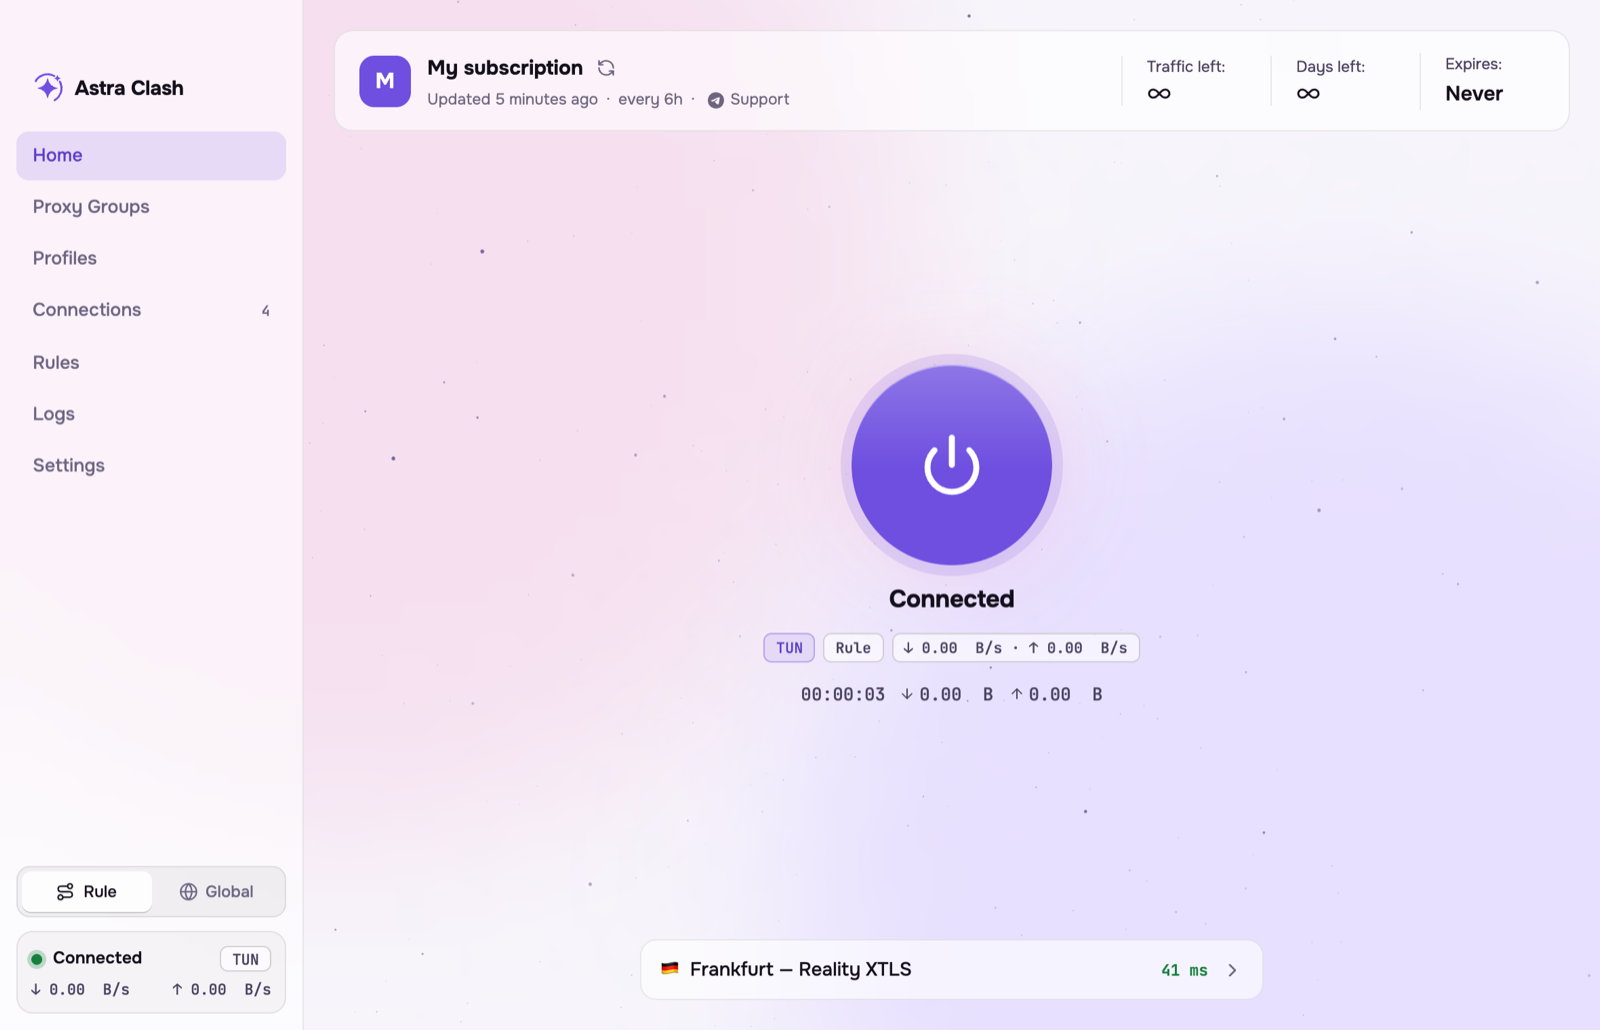
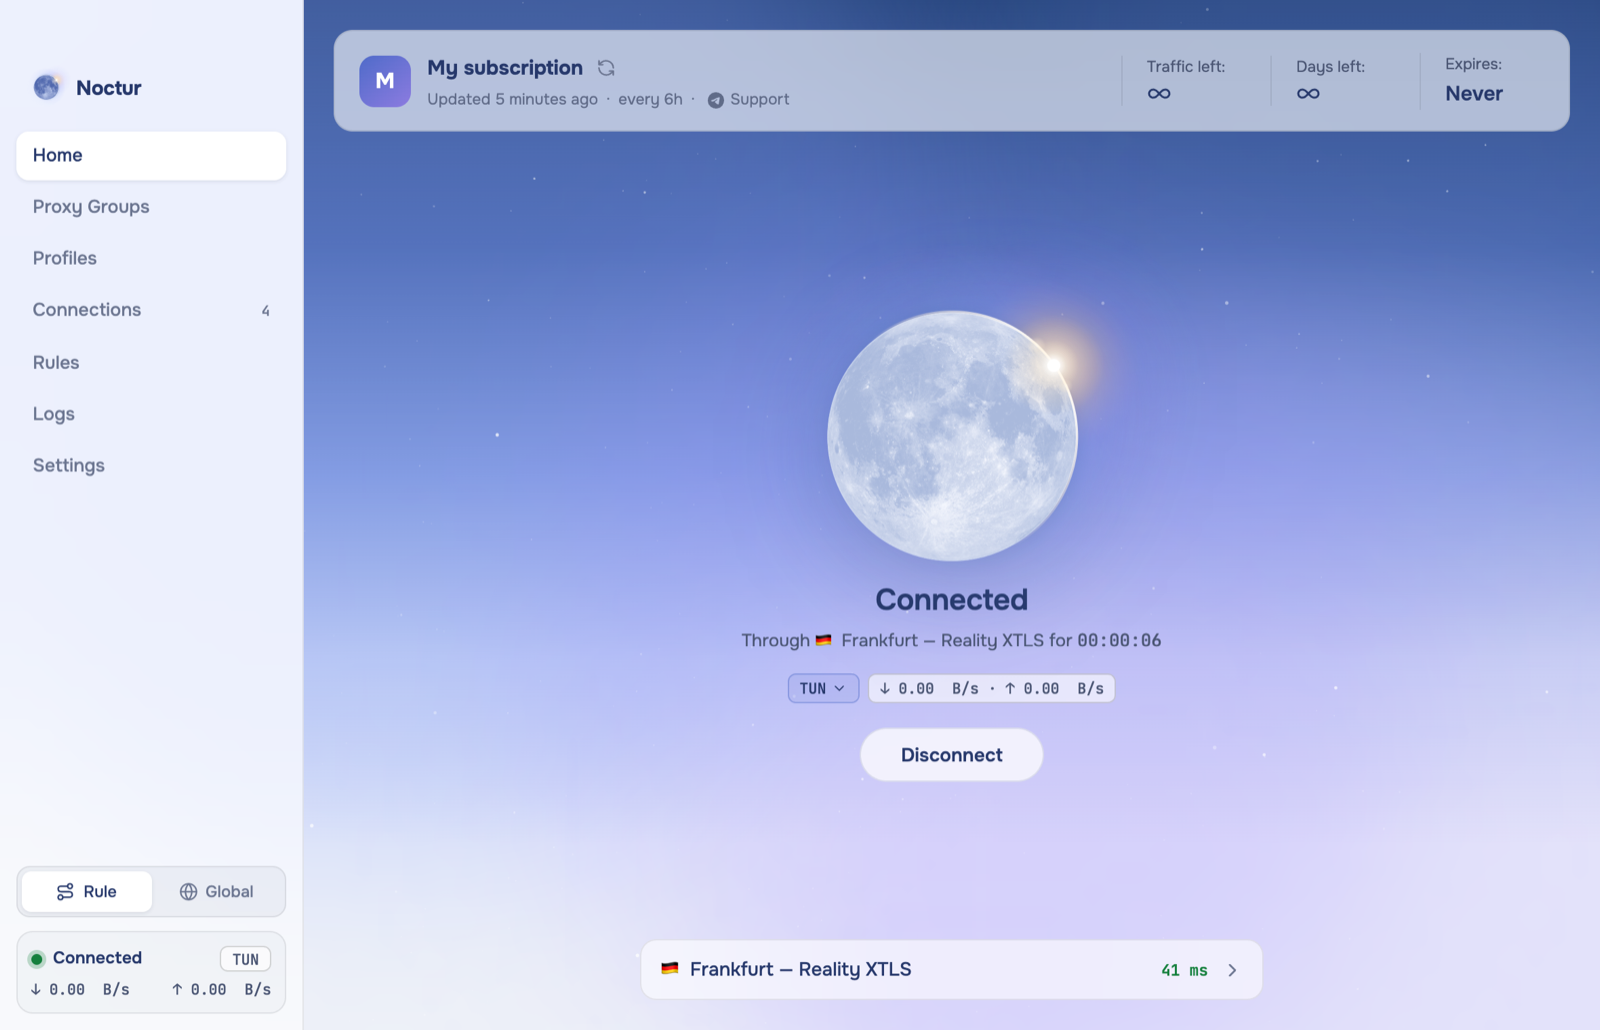
README: new screenshots and connect clip

diff --git a/README.md b/README.md
@@ -1,47 +1,44 @@
 <p align="center">
-  <img src="./build/icon.png" alt="Astra Clash" width="112" />
+  <img src="./build/icon.png" alt="Noctur" width="112" />
 </p>
 
-<h1 align="center">Astra Clash</h1>
+<h1 align="center">Noctur</h1>
 
 <p align="center"><a href="https://github.com/MetaCubeX/mihomo">mihomo</a> client for macOS, Windows and Linux</p>
 
 <p align="center">
-  <a href="https://github.com/Derpcrawler/astra-clash/releases/latest"><img src="https://img.shields.io/github/v/release/Derpcrawler/astra-clash?label=latest"></a>
+  <a href="https://github.com/Derpcrawler/noctur/releases/latest"><img src="https://img.shields.io/github/v/release/Derpcrawler/noctur?label=latest"></a>
   <a href="./LICENSE"><img src="https://img.shields.io/badge/license-GPL--3.0-blue"></a>
 </p>
 
-## Screenshots
-
-| | |
-|---|---|
-| ![Home, connected](./docs/screenshots/home.png) | ![Proxy groups](./docs/screenshots/proxies.png) |
-| ![Home, light theme with the Carina palette](./docs/screenshots/light.png) | ![Settings, appearance](./docs/screenshots/settings.png) |
+<p align="center"><img src="./docs/screenshots/connect.webp" alt="Connecting on Home: the moon lights up with a sunrise" width="800" /></p>
 
 ## Features
 
 - Modern and simple design
-- TUN mode and system proxy
+- Two looks: Noctur, with an eclipse that lights up when you connect, and Calm, with a simple power switch
+- TUN mode and system proxy, switched from Home
 - Subscription details: traffic and days left, update interval, support link (Remnawave and similar panels)
 - Proxy groups with latency tests, rules, live connections, logs
 - TUN, DNS and sniffer settings, plus a profile editor with validation
 - Profile import from `clash://` links
 - Stable and alpha mihomo cores
+- Updates from Home in one click when a new version is out (macOS and Windows)
 - Menu bar and tray menu, global shortcuts, floating speed window
-- 13 color palettes, light and dark
+- Two palettes, Noctur and Void, and a light mode
 - English, Russian, Chinese
 
 ## Download
 
-Get the latest version from [Releases](https://github.com/Derpcrawler/astra-clash/releases/latest).
+Get the latest version from [Releases](https://github.com/Derpcrawler/noctur/releases/latest).
 
 | System | File |
 |---|---|
-| macOS 13 or later, Apple Silicon | `Astra-Clash_<version>_arm64.pkg` |
-| Windows 10 or 11, x64 | `Astra-Clash_<version>_x64-setup.exe` |
-| Debian, Ubuntu and derivatives, x64 | `Astra-Clash_<version>_amd64.deb` |
-| Fedora, openSUSE, x64 | `Astra-Clash_<version>_x86_64.rpm` |
-| Arch and derivatives, x64 | `Astra-Clash_<version>_x64.pkg.tar.xz` |
+| macOS 13 or later, Apple Silicon | `Noctur_<version>_arm64.pkg` |
+| Windows 10 or 11, x64 | `Noctur_<version>_x64-setup.exe` |
+| Debian, Ubuntu and derivatives, x64 | `Noctur_<version>_amd64.deb` |
+| Fedora, openSUSE, x64 | `Noctur_<version>_x86_64.rpm` |
+| Arch and derivatives, x64 | `Noctur_<version>_x64.pkg.tar.xz` |
 
 ### First launch
 
@@ -49,17 +46,19 @@ The builds are not signed with an Apple or Microsoft certificate, so macOS and W
 
 - **macOS:** open System Settings, Privacy & Security, click Open Anyway next to the message about the installer, and run it again.
 - **Windows:** in the "Windows protected your PC" message, click More info, then Run anyway.
-- **Linux:** install the package with your package manager, for example `sudo apt install ./Astra-Clash_<version>_amd64.deb`.
+- **Linux:** install the package with your package manager, for example `sudo apt install ./Noctur_<version>_amd64.deb`.
 
-Found a bug? [Open an issue](https://github.com/Derpcrawler/astra-clash/issues).
+Coming from Astra Clash? Install Noctur over it: your settings, profiles and autostart move over on first start.
+
+Found a bug? [Open an issue](https://github.com/Derpcrawler/noctur/issues).
 
 ## Build from source
 
 You need Node.js 22.12 or later, pnpm 10 and Git. Building for Windows also needs Go 1.21 or later.
 
 ```bash
-git clone https://github.com/Derpcrawler/astra-clash.git
-cd astra-clash
+git clone https://github.com/Derpcrawler/noctur.git
+cd noctur
 pnpm install   # also downloads mihomo, geo data and helpers for this system
 pnpm dev
 ```
@@ -96,6 +95,14 @@ node scripts/prepare.mjs --arm64 --mac   # back to macOS binaries
 Linux packages built on macOS need `rpmbuild` (`brew install rpm`) and GNU `ar` first on your PATH (`brew install binutils`, then add `$(brew --prefix binutils)/bin`). With the macOS `ar`, the .deb comes out empty.
 
 </details>
+
+## Screenshots
+
+| | |
+|---|---|
+| ![Home, connected](./docs/screenshots/home.png) | ![Home in light mode, twilight](./docs/screenshots/light.png) |
+| ![The Calm look](./docs/screenshots/calm.png) | ![Proxy groups](./docs/screenshots/proxies.png) |
+| ![Connections](./docs/screenshots/connections.png) | ![Settings, appearance](./docs/screenshots/settings.png) |
 
 ## Credits
 
